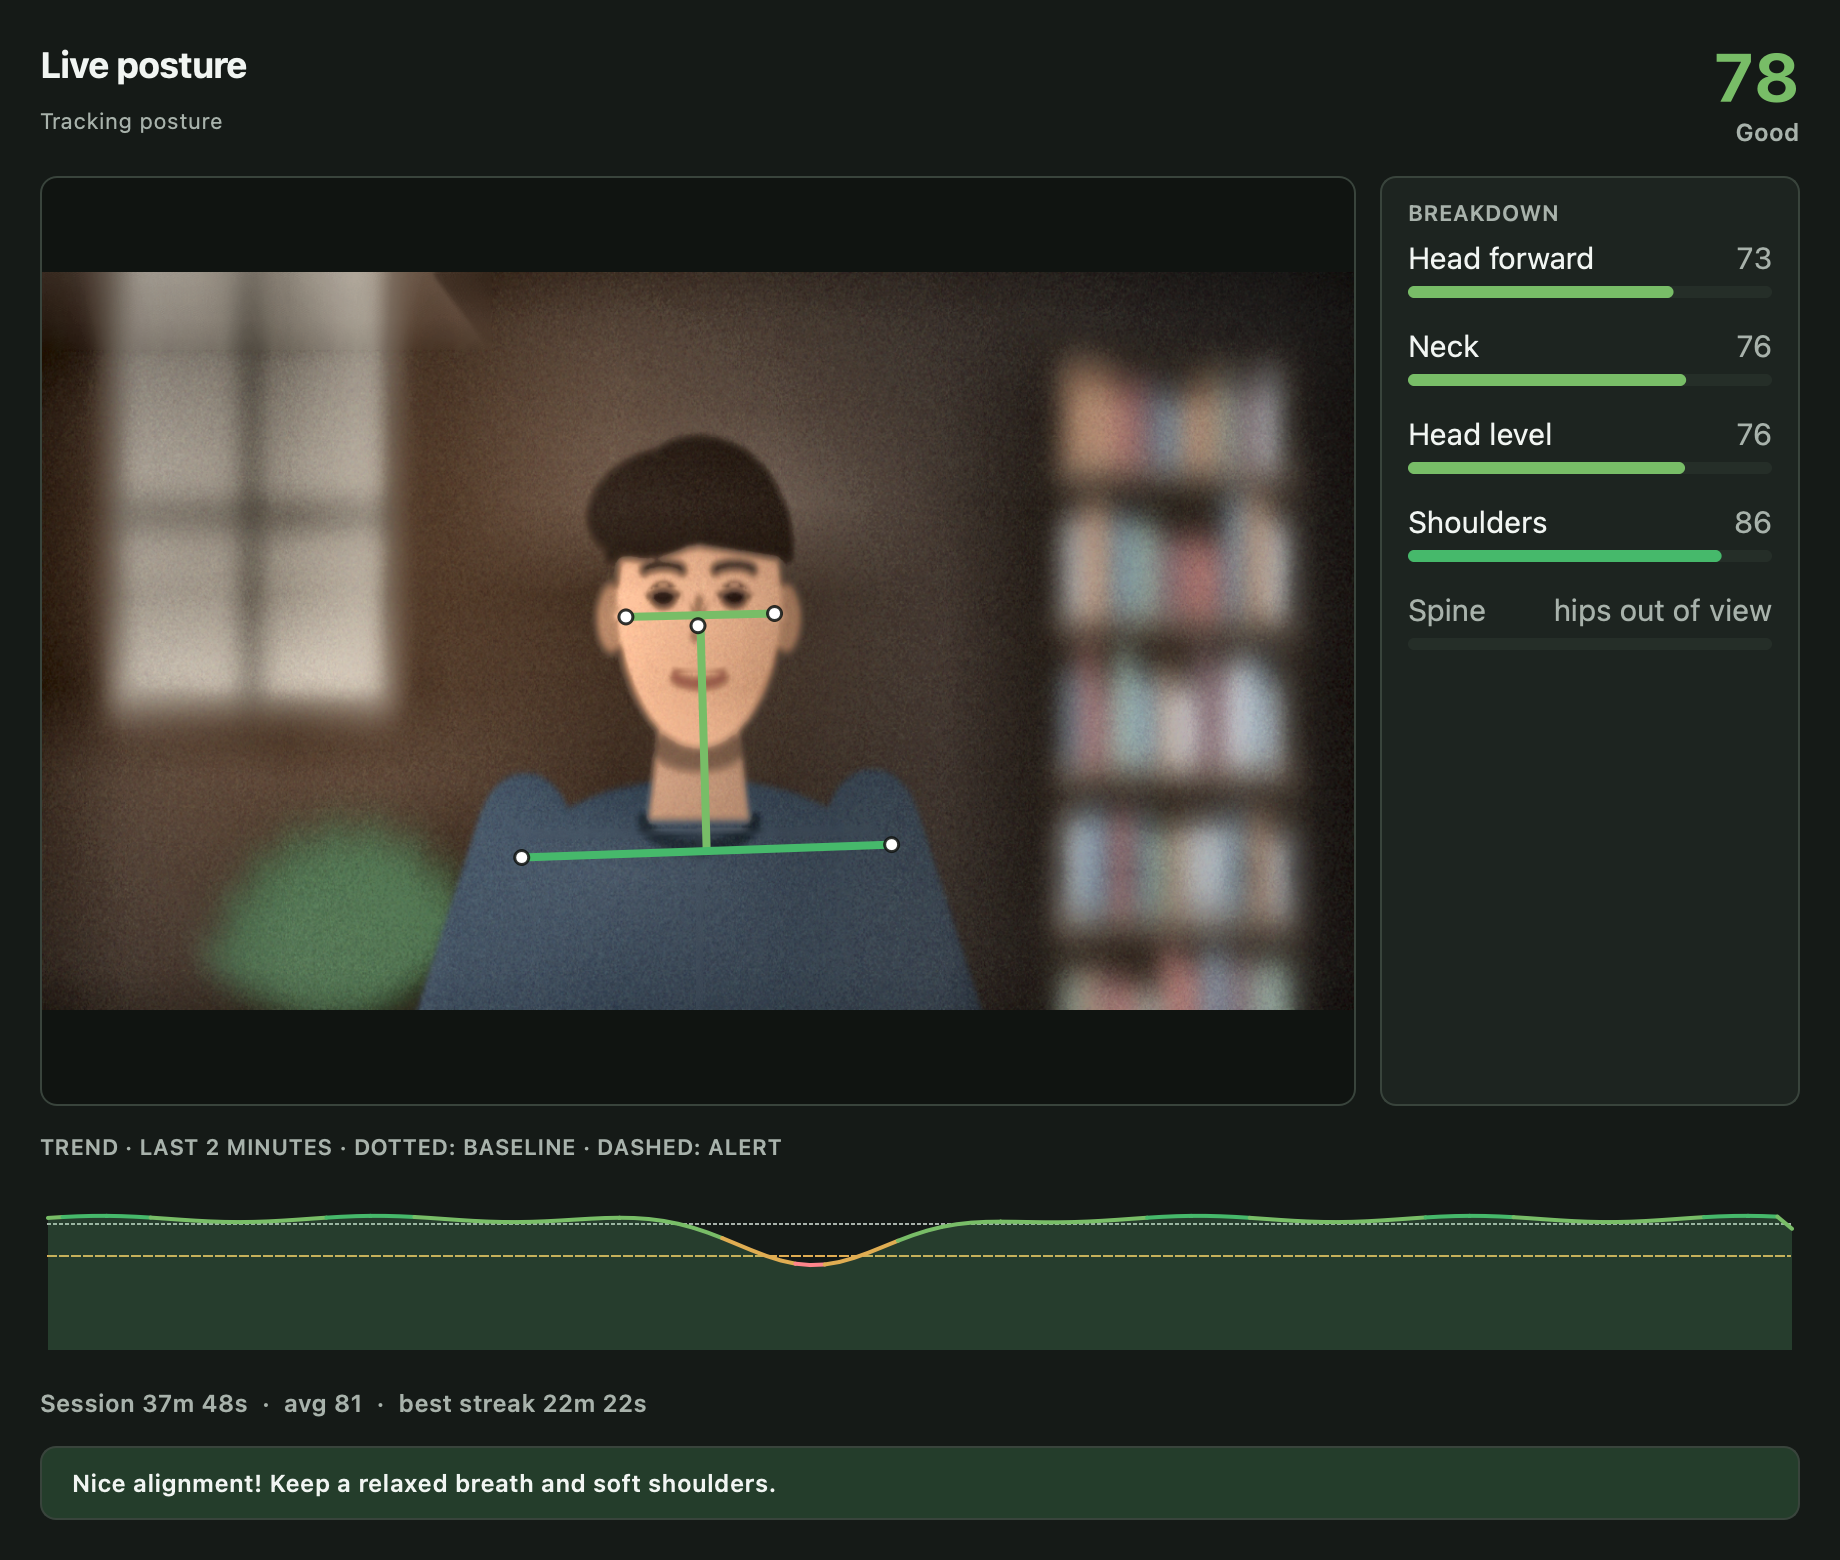
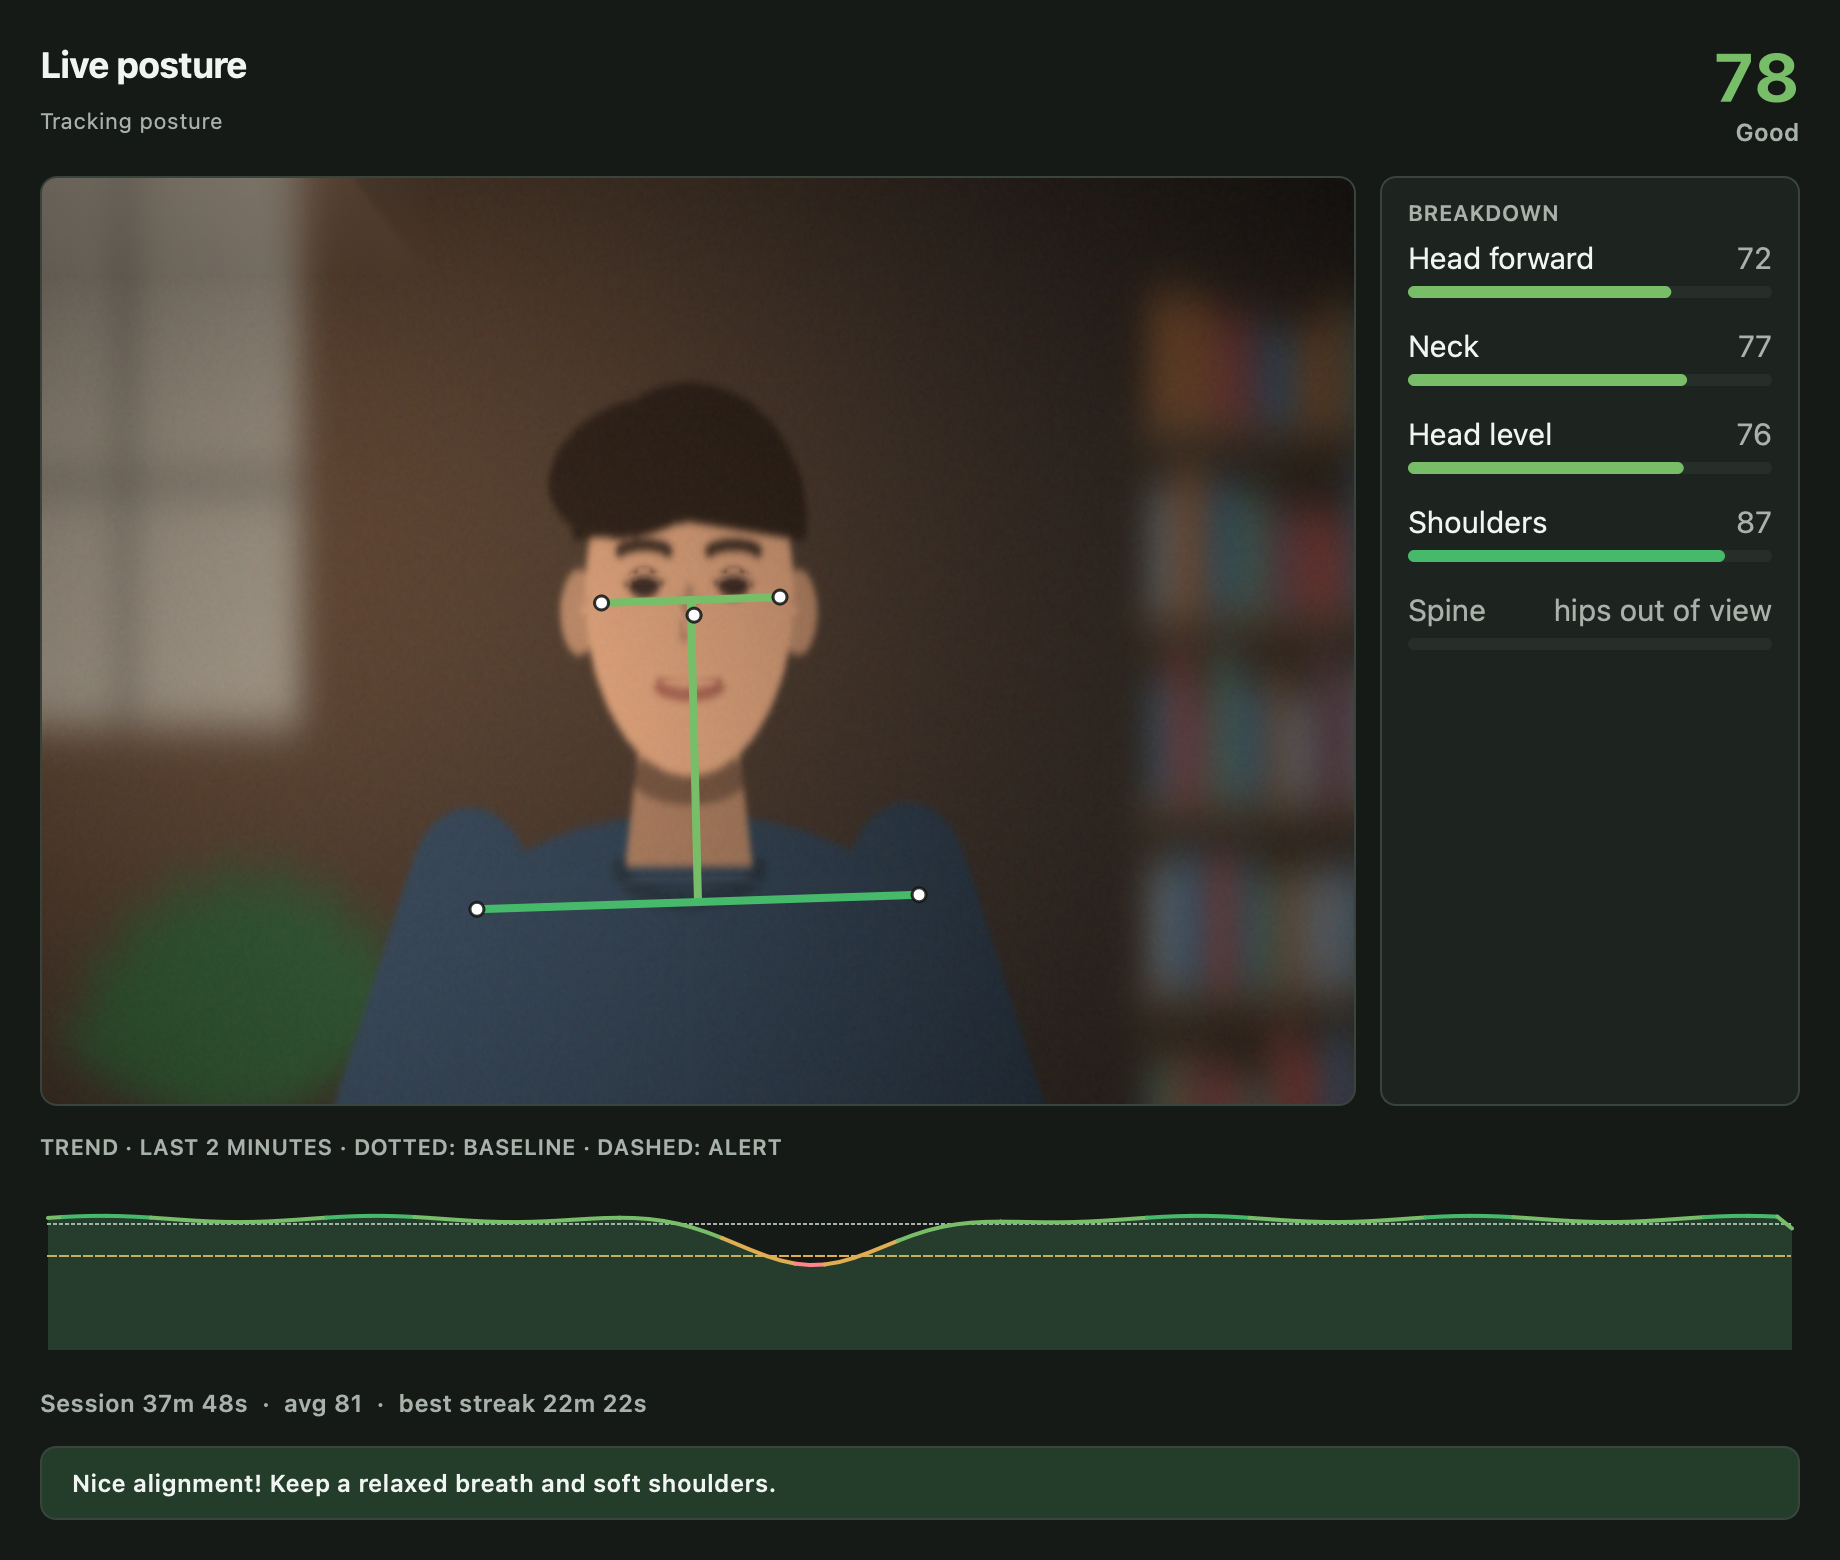
feat(dashboard): auto-frame head and shoulders; ease breakdown bars
- The video fills its panel (no letterbox bars) and the crop eases toward
  the person's head and shoulders, back out when nobody is detected
- Breakdown bars ease toward per-frame values instead of jittering at 15 Hz
- Popover mini-trend zooms to its data range
- README screenshot re-rendered without CLAHE

Changed region(s): [[0.0, 0.1846, 0.7435, 0.7077], [0.0, 0.0923, 0.5576, 0.4923], [0.9293, 0.3077, 0.9603, 0.3385]]

diff --git a/batesposture/ui/dashboard.py b/batesposture/ui/dashboard.py
@@ -3,6 +3,7 @@ from __future__ import annotations
 from collections import deque
 from dataclasses import dataclass
 from functools import lru_cache
+from math import exp
 from time import monotonic
 
 import numpy as np
@@ -101,6 +102,19 @@ COMPONENTS = (
 _COMPONENTS_BY_KEY = {component.key: component for component in COMPONENTS}
 # Components below this need attention; the worst ones become the coaching cue.
 _COMPONENT_FLAG_BELOW = 0.75
+# Breakdown bars ease toward per-frame values instead of jittering at 15 Hz.
+_BAR_EASE_S = 0.35
+
+# Auto-framing: the crop eases toward the person's head and shoulders, and back
+# out to the whole frame when nobody is detected.
+_FRAMING_EASE_S = 0.6
+_FRAMING_NECKS_TALL = 4.5  # crop height in neck lengths (ear line → shoulders)
+_FRAMING_MIN_HEIGHT = 0.5  # never zoom in past half the frame height
+
+
+def _ease(dt: float, time_constant: float) -> float:
+    """Fraction of the remaining distance to cover after ``dt`` seconds."""
+    return 1.0 - exp(-max(dt, 0.0) / time_constant)
 
 
 def _set_text(label: QLabel, text: str) -> None:
@@ -250,7 +264,8 @@ class VideoView(QWidget):
 
     Only the landmarks that feed the score are drawn, and each segment is
     coloured by the component it measures, so the overlay shows *why* the
-    score moved. The frame is wrapped as a BGR QImage without copying.
+    score moved. The view fills its rect and frames the person's head and
+    shoulders. The frame is wrapped as a BGR QImage without copying.
     """
 
     def __init__(self, parent: QWidget | None = None) -> None:
@@ -261,6 +276,8 @@ class VideoView(QWidget):
         self._component_values: dict[str, float | None] = {}
         self._theme_preference = "light"
         self._border = QColor("#d9e1da")
+        self._crop: QRectF | None = None  # in image pixels
+        self._crop_at = 0.0
         self.setMinimumSize(320, 180)
         self.setSizePolicy(QSizePolicy.Policy.Expanding, QSizePolicy.Policy.Expanding)
 
@@ -282,18 +299,53 @@ class VideoView(QWidget):
         self._image = QImage(frame.data, w, h, 3 * w, QImage.Format.Format_BGR888)
         self._points = points
         self._component_values = component_values or {}
+        self._ease_crop(self._desired_crop(w, h), monotonic())
         self.update()
 
-    def _image_rect(self) -> QRectF:
-        bounds = QRectF(self.rect()).adjusted(1, 1, -1, -1)
-        if self._image is None:
-            return bounds
-        scale = min(
-            bounds.width() / self._image.width(),
-            bounds.height() / self._image.height(),
+    def _aspect(self) -> float:
+        return max(self.width(), 1) / max(self.height(), 1)
+
+    def _desired_crop(self, w: int, h: int) -> QRectF:
+        points = self._points
+        if points is None:
+            crop_h, cx, cy = float(h), w / 2, h / 2
+        else:
+            ear_y = points[[PoseLandmark.LEFT_EAR, PoseLandmark.RIGHT_EAR], 1].mean()
+            shoulders = points[
+                [PoseLandmark.LEFT_SHOULDER, PoseLandmark.RIGHT_SHOULDER]
+            ]
+            neck = max(float(shoulders[:, 1].mean() - ear_y), 0.02)
+            fraction = min(max(_FRAMING_NECKS_TALL * neck, _FRAMING_MIN_HEIGHT), 1.0)
+            crop_h = fraction * h
+            cx = float(shoulders[:, 0].mean()) * w
+            cy = float(ear_y + 0.4 * neck) * h
+        return _fit(
+            QRectF(cx - crop_h / 2, cy - crop_h / 2, crop_h, crop_h),
+            self._aspect(),
+            w,
+            h,
         )
-        w, h = self._image.width() * scale, self._image.height() * scale
-        return QRectF(bounds.center().x() - w / 2, bounds.center().y() - h / 2, w, h)
+
+    def _ease_crop(self, desired: QRectF, now: float) -> None:
+        current = self._crop
+        if current is None:
+            self._crop = desired
+        else:
+            a = _ease(now - self._crop_at, _FRAMING_EASE_S)
+            self._crop = QRectF(
+                current.x() + (desired.x() - current.x()) * a,
+                current.y() + (desired.y() - current.y()) * a,
+                current.width() + (desired.width() - current.width()) * a,
+                current.height() + (desired.height() - current.height()) * a,
+            )
+        self._crop_at = now
+
+    def _to_widget(self, crop: QRectF, x: float, y: float) -> QPointF:
+        image = self._image
+        return QPointF(
+            (x * image.width() - crop.x()) / crop.width() * self.width(),
+            (y * image.height() - crop.y()) / crop.height() * self.height(),
+        )
 
     def paintEvent(self, event):  # noqa: N802
         painter = QPainter(self)
@@ -305,24 +357,25 @@ class VideoView(QWidget):
         )
         painter.fillPath(frame_path, QColor("#101411"))
         painter.setClipPath(frame_path)
-        if self._image is not None:
-            target = self._image_rect()
-            painter.drawImage(target, self._image)
+        if self._image is not None and self._crop is not None:
+            # Re-fit to the current aspect in case the widget was just resized
+            crop = _fit(
+                self._crop, self._aspect(), self._image.width(), self._image.height()
+            )
+            painter.drawImage(QRectF(self.rect()), self._image, crop)
             if self._points is not None:
-                self._draw_skeleton(painter, target)
+                self._draw_skeleton(painter, crop)
         painter.setClipping(False)
         painter.setBrush(Qt.BrushStyle.NoBrush)
         painter.setPen(QPen(self._border, 1.0))
         painter.drawPath(frame_path)
 
-    def _draw_skeleton(self, painter: QPainter, target: QRectF) -> None:
+    def _draw_skeleton(self, painter: QPainter, crop: QRectF) -> None:
         points = self._points
 
         def _at(*indices: int) -> QPointF:
             x, y = points[list(indices), :2].mean(axis=0)
-            return QPointF(
-                target.left() + x * target.width(), target.top() + y * target.height()
-            )
+            return self._to_widget(crop, x, y)
 
         nose = _at(PoseLandmark.NOSE)
         left_ear, right_ear = _at(PoseLandmark.LEFT_EAR), _at(PoseLandmark.RIGHT_EAR)
@@ -358,6 +411,17 @@ class VideoView(QWidget):
         painter.setBrush(QColor("#ffffff"))
         for joint in joints:
             painter.drawEllipse(joint, 3.5, 3.5)
+
+
+def _fit(rect: QRectF, aspect: float, w: int, h: int) -> QRectF:
+    """Reshape ``rect`` to ``aspect`` about its centre, kept inside a w×h image."""
+    crop_h = min(rect.height(), float(h))
+    crop_w = crop_h * aspect
+    if crop_w > w:
+        crop_w, crop_h = float(w), w / aspect
+    x = min(max(rect.center().x() - crop_w / 2, 0.0), w - crop_w)
+    y = min(max(rect.center().y() - crop_h / 2, 0.0), h - crop_h)
+    return QRectF(x, y, crop_w, crop_h)
 
 
 class _ComponentRow(QWidget):
@@ -457,6 +521,8 @@ class PostureDashboard(QDialog):
         self._last_chart_sample_at: float | None = None
         self._tracking_state = "starting"
         self._component_values: dict[str, float | None] = {}
+        self._shown_values: dict[str, float | None] = {}
+        self._shown_at = 0.0
         self._score_css = ""
 
         outer_layout = QVBoxLayout(self)
@@ -646,8 +712,16 @@ class PostureDashboard(QDialog):
         }
         flagged = [] if self._is_good(score) else self._flagged_components(metrics)
         worst = flagged[0] if flagged else None
+        now = monotonic()
+        a = _ease(now - self._shown_at, _BAR_EASE_S)
+        self._shown_at = now
         for key, row in self.component_rows.items():
-            row.set_state(self._component_values[key], key == worst)
+            target = self._component_values[key]
+            shown = self._shown_values.get(key)
+            if target is not None and shown is not None:
+                target = shown + (target - shown) * a
+            self._shown_values[key] = target
+            row.set_state(target, key == worst)
 
     def _set_score_css(self, css: str) -> None:
         # setStyleSheet re-polishes the widget; only pay for it on a change.

diff --git a/batesposture/tests/test_ui_layout.py b/batesposture/tests/test_ui_layout.py
@@ -1,5 +1,6 @@
 from __future__ import annotations
 
+import pytest
 from PyQt6.QtCore import QSettings
 from PyQt6.QtWidgets import QLabel, QScrollArea
 
@@ -148,3 +149,28 @@ def test_settings_camera_list_fills_in_after_background_detection(qapp, tmp_path
     assert dialog.camera_combo.currentData() == 0
     assert "Detecting" not in dialog.camera_help_label.text()
     dialog.close()
+
+
+def test_video_frames_head_and_shoulders_then_eases_back_out(qapp):
+    import numpy as np
+
+    from ..ui.dashboard import VideoView
+
+    view = VideoView()
+    view.resize(640, 360)
+    frame = np.zeros((720, 1280, 3), dtype=np.uint8)
+    points = np.full((33, 3), 0.5)
+    points[[7, 8], 1] = 0.40  # ears
+    points[[11, 12], 1] = 0.50  # shoulders: neck = 0.1 of the frame
+    points[[11, 12], 0] = (0.45, 0.55)
+
+    view.set_frame(frame, points)
+    framed = view._crop
+    assert framed.height() == pytest.approx(0.5 * 720)  # min zoom (4.5 * 0.1 < 0.5)
+    assert framed.width() / framed.height() == pytest.approx(640 / 360)
+    assert 0 <= framed.left() and framed.right() <= 1280
+
+    for _ in range(30):  # nobody detected for a while
+        view._crop_at -= 0.2
+        view.set_frame(frame)
+    assert view._crop.height() == pytest.approx(720, rel=0.02)
